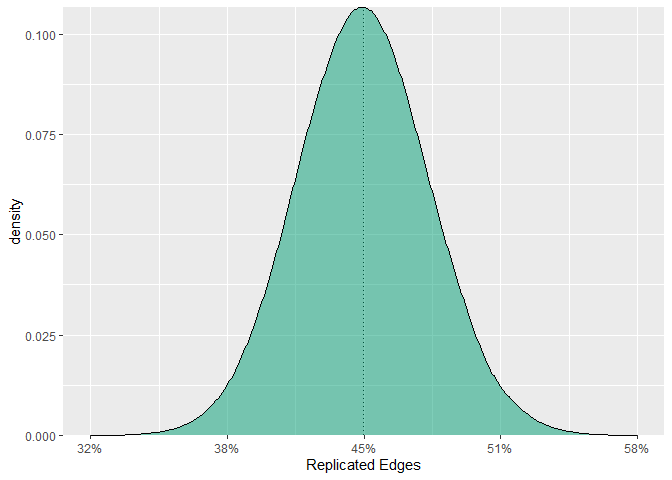
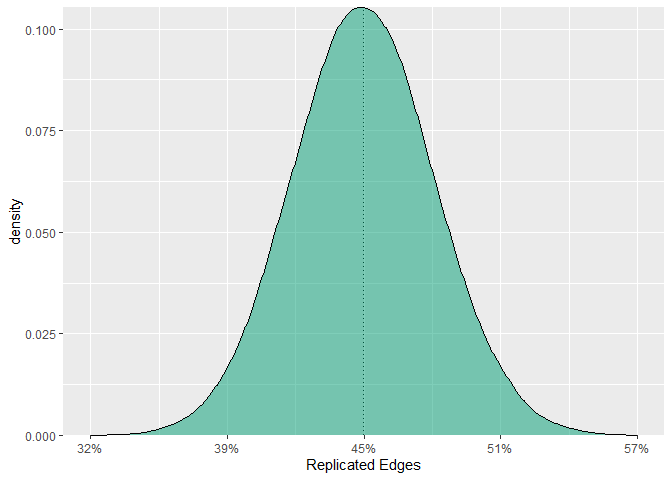
update to remove ggplot link

diff --git a/README.md b/README.md
@@ -43,7 +43,7 @@ The following are also included
   - Compare Gaussian graphical models
   - Measure of parameter uncertainty (Donald R. Williams et al. 2019)
   - Edge inclusion “probabilities”
-  - Network visualization with **ggplot2** (Wickham 2016)
+  - Network visualization
   - Constrained precision matrix (the network, given an assumed graph)
   - Predictability (variance explained)
 
@@ -121,16 +121,16 @@ fit <- ggm_inference(Y, boot = TRUE,
 
 confint(fit)
 #>              2.5%        97.5%
-#>  [1,] -0.29648812 -0.219719091
-#>  [2,] -0.14815453 -0.074379965
-#>  [3,]  0.24283564  0.330728738
-#>  [4,] -0.03822524  0.031294716
-#>  [5,]  0.12686468  0.204242608
-#>  [6,]  0.13646425  0.204009212
-#>  [7,] -0.06462230  0.007534222
-#>  [8,]  0.10876260  0.187739905
-#>  [9,]  0.33821957  0.410151911
-#> [10,]  0.08414945  0.157877808
+#>  [1,] -0.28844714 -0.220752713
+#>  [2,] -0.14781549 -0.073113592
+#>  [3,]  0.25289406  0.330857510
+#>  [4,] -0.04222389  0.028040478
+#>  [5,]  0.12834501  0.199016431
+#>  [6,]  0.11818500  0.208993163
+#>  [7,] -0.07206407  0.007414793
+#>  [8,]  0.10919057  0.184866714
+#>  [9,]  0.34724800  0.411433295
+#> [10,]  0.08305925  0.163373303
 ```
 
 These can then be plotted with, say, **ggplot2** (left to the user).
@@ -156,10 +156,10 @@ fit
 #> 1  1.00
 #> 2  1.00
 #> 3  1.00
-#> 4  0.01
+#> 4  0.03
 #> 5  1.00
 #> 6  1.00
-#> 7  0.24
+#> 7  0.27
 #> 8  1.00
 #> 9  1.00
 #> 10 1.00
@@ -289,8 +289,8 @@ cbind.data.frame(
 #> 2       1.000    1.000
 #> 3       1.000    1.000
 #> 4       1.000    1.000
-#> 5       0.887    0.912
-#> 6       0.046    0.052
+#> 5       0.904    0.912
+#> 6       0.059    0.052
 #> 7       0.000    0.000
 #> 8       0.000    0.000
 #> 9       0.000    0.000
@@ -298,7 +298,7 @@ cbind.data.frame(
 
 # average replicability (simulation)
 mean(R / length(index))
-#> [1] 0.4453333
+#> [1] 0.4472564
 
 # average replicability (analytic)
 fit_enr$ave_pwr
@@ -343,13 +343,6 @@ Taylor, L Waldorp, H L J van der Maas, and G Maris. 2017. “An
 Introduction to Network Psychometrics: Relating Ising Network Models to
 Item Response Theory Models.” *Taylor & Francis* 53 (1): 15–35.
 <https://doi.org/10.1080/00273171.2017.1379379>.
-
-</div>
-
-<div id="ref-ggplotpackage">
-
-Wickham, Hadley. 2016. *ggplot2: Elegant Graphics for Data Analysis*.
-Springer-Verlag New York. <http://ggplot2.org>.
 
 </div>
 
